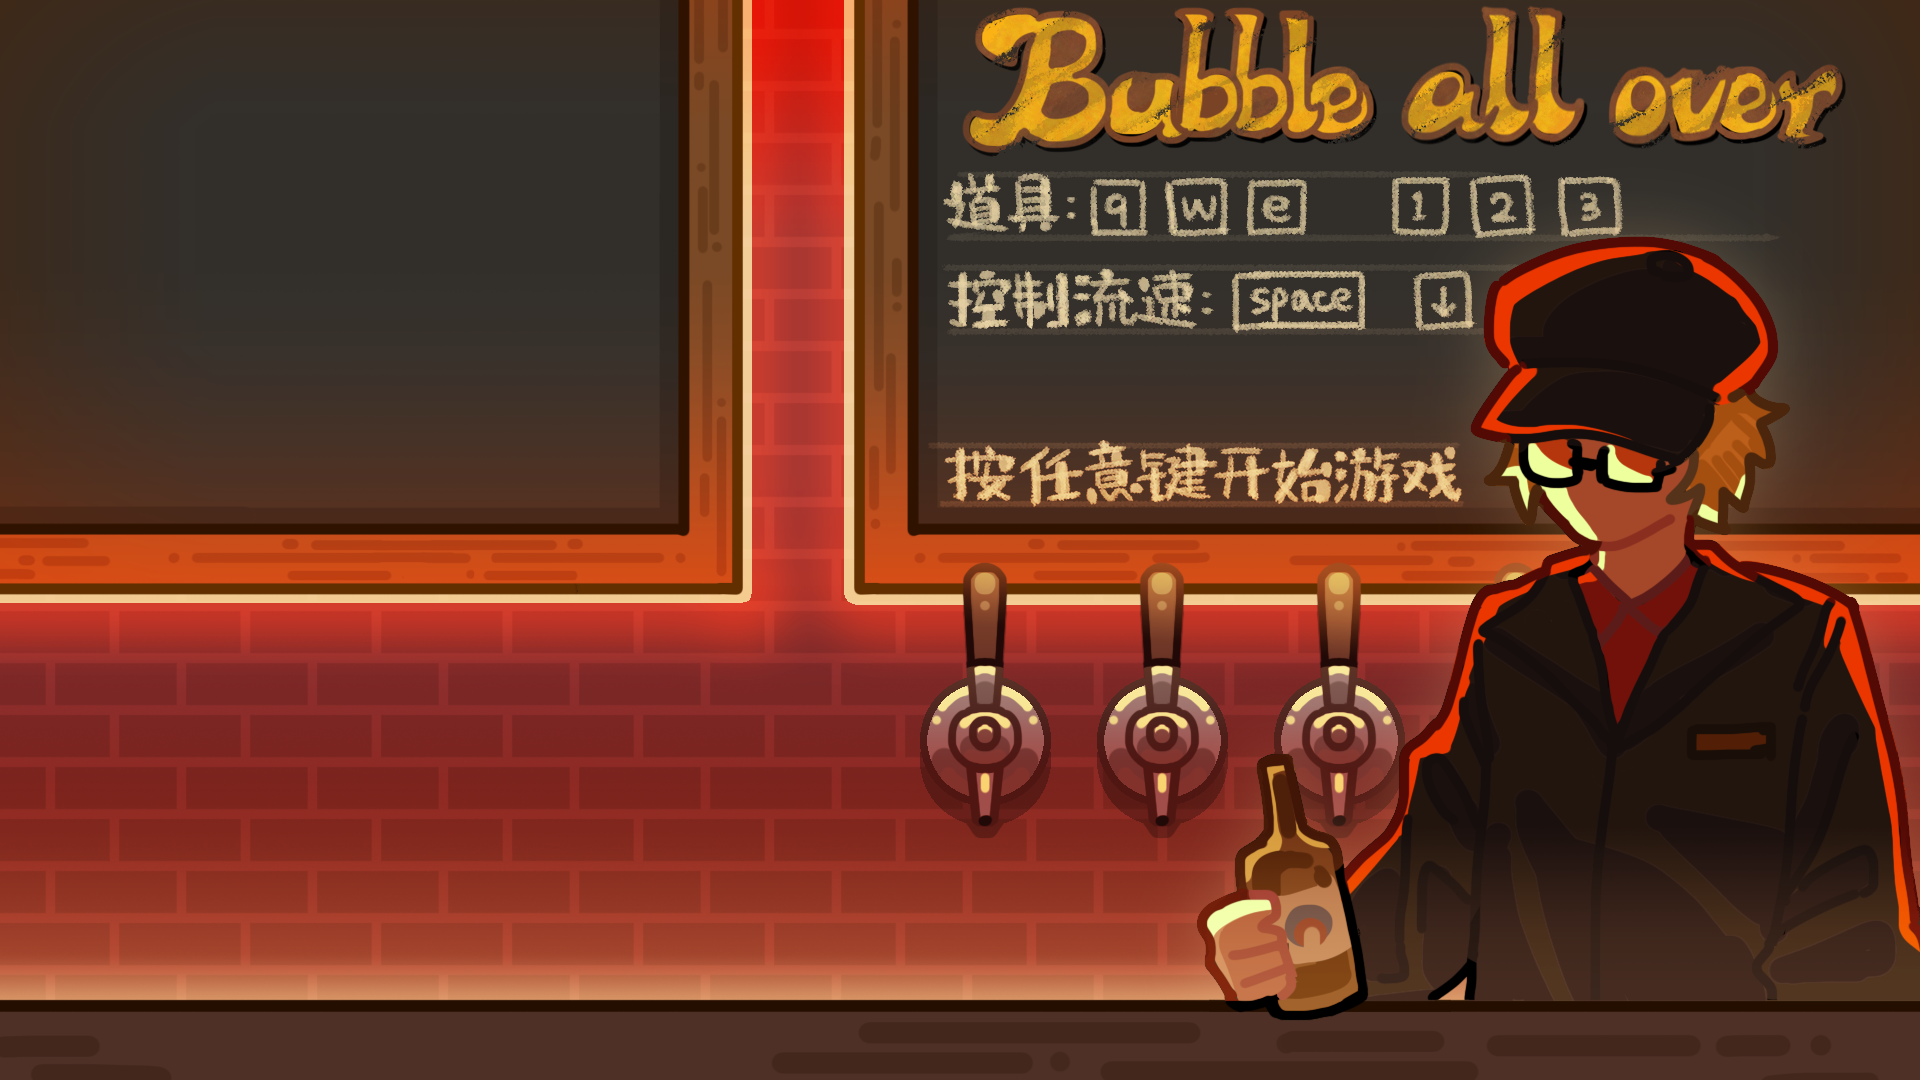
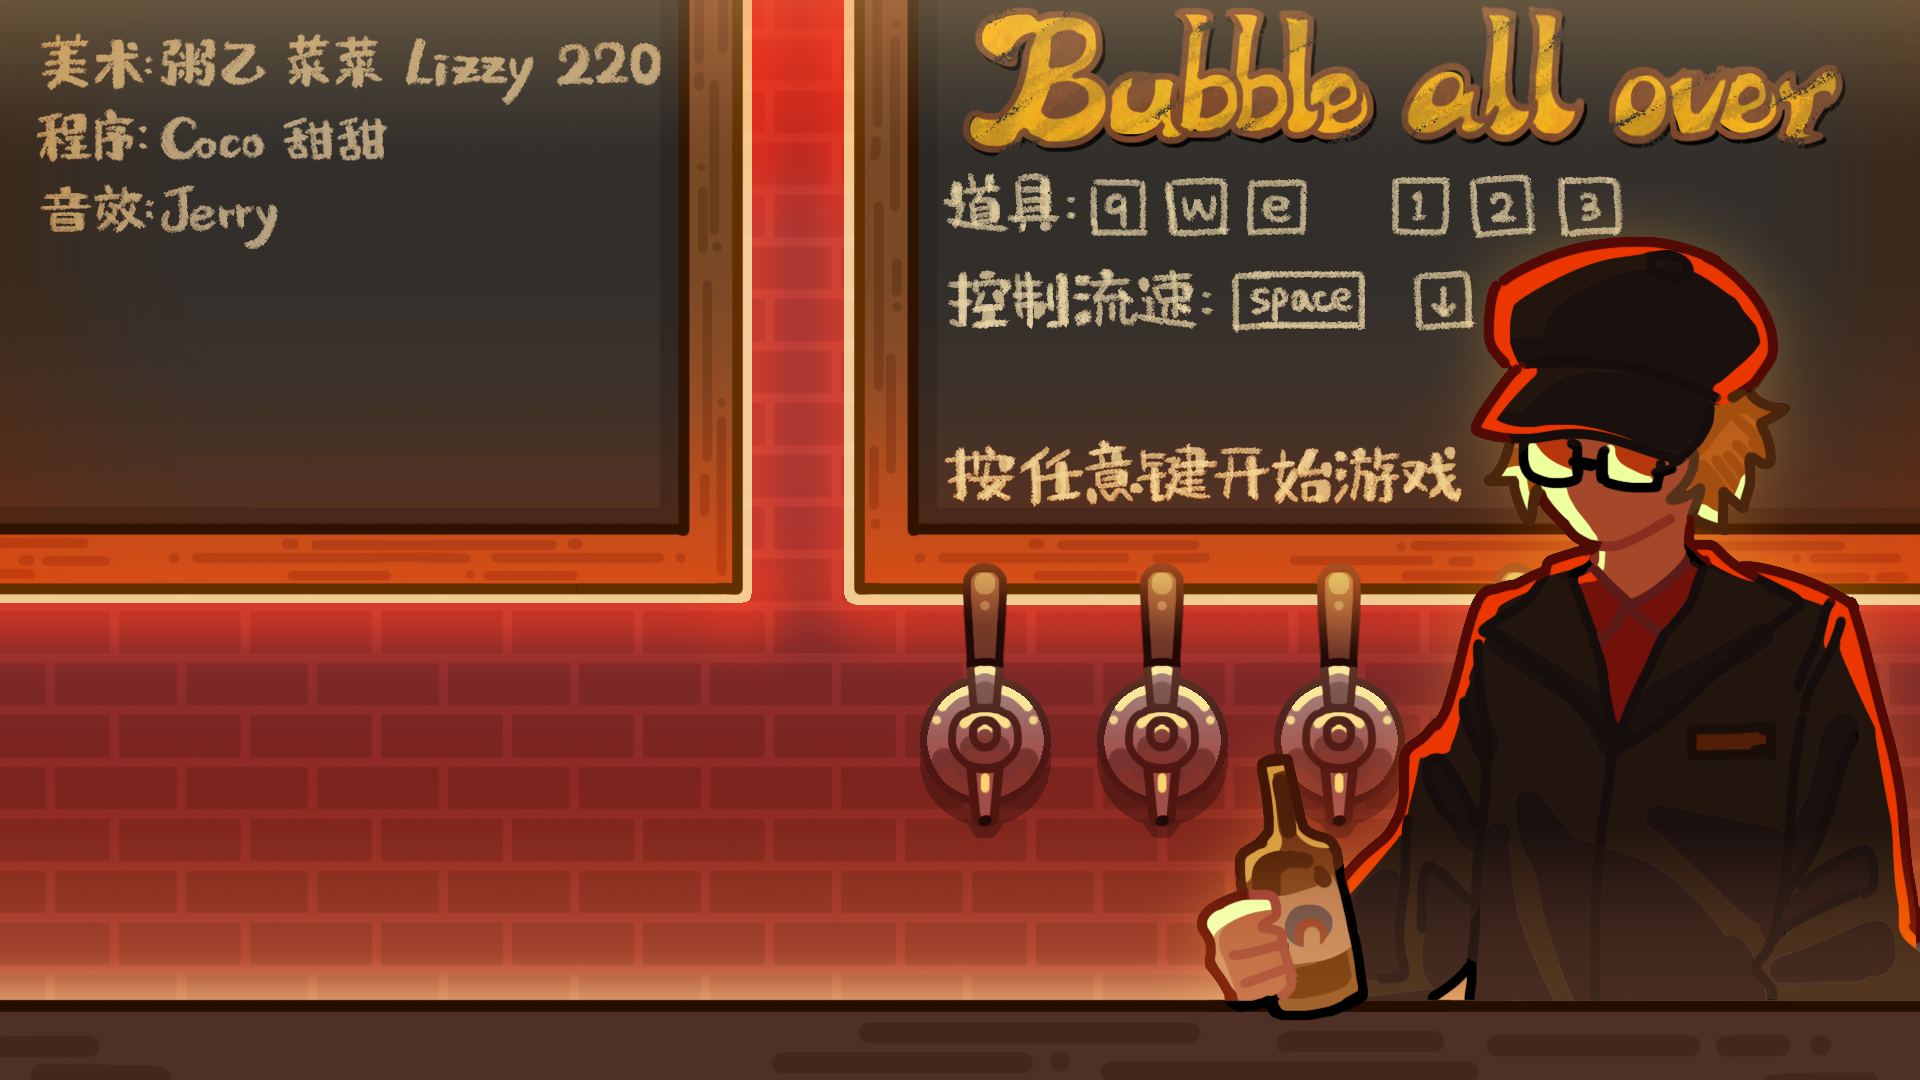
更新素材，职员表初步

Changed region(s): [[0.0, 0.0, 1.0, 0.2444], [0.5, 0.4583, 0.75, 0.4889]]

diff --git a/Assets/Scripts/Util/UI/SplashCanvas.cs b/Assets/Scripts/Util/UI/SplashCanvas.cs
@@ -15,6 +15,7 @@ namespace Util.UI
         public string spineAnimationName = "animation"; // 您的 Spine 动画名称
 
         private AsyncOperation asyncLoad;
+        public SimpleUIAnimation simpleUIAnimation;
 
         void Start()
         {
@@ -124,8 +125,20 @@ namespace Util.UI
 
         public void AboutUs()
         {
+            simpleUIAnimation.gameObject.SetActive(true);
+            AkSoundEngine.PostEvent(SoundEffects.Click, GameManager.Instance.gameObject);
+            // 实现您的关于我们逻辑
+            simpleUIAnimation.DoBornAnimation();
+        }
+        
+        public void ExitAboutUs()
+        {
             AkSoundEngine.PostEvent(SoundEffects.NormalClick, GameManager.Instance.gameObject);
             // 实现您的关于我们逻辑
+            simpleUIAnimation.DoDieAnimation().OnComplete(() =>
+            {
+                simpleUIAnimation.gameObject.SetActive(false);
+            });
         }
 
         public void Exit()
